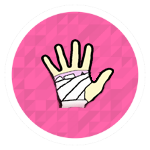
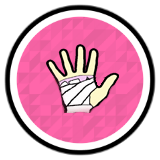
Added projects

Changed region(s): [[0.0267, 0.0267, 0.9867, 0.9867], [0.2667, 0.24, 0.7733, 0.72]]

diff --git a/html5up-astral/index.html b/html5up-astral/index.html
@@ -34,7 +34,8 @@
 						<!-- Me -->
 							<article id="me" class="panel">
 								<header>
-								<img style="position:relative;top:25%;left:65%;border-radius:50%;max-width:200px;" src="me.jpg"/>
+								<img style="position:relative;display:inline;margin:0 auto;top:25%;left:65%;border-radius:50%;max-width:200px;" 
+								src="images/me.jpg"/>
 									<h1>Kevin Yang</h1>
 									<p>Computer/Information Science Student</p>
 								</header>
@@ -53,13 +54,15 @@
 									target="_blank"> staring at mechanical keyboards</a>, as well as <a style="color:inherit;" 
 									href="images/dab.mp4" target="_blank"> risking injury for dumb trends.</a></p>
 									<p>Here are a few useful links:</p>
-									<a target="_blank" href="resume.pdf"><img width="75px" src="images/resume.png"/></a>
-									<span style="position:relative;bottom:30px;font-size:24px;color:#FF6666;">&nbsp; Resume &nbsp;</span>
-									<a target="_blank" href="https://www.linkedin.com/in/kevin-yang-boulder/"><img width="75px"
-									src="images/LinkedIn.png"/></a>
-									<span style="position:relative;bottom:30px;font-size:24px; color:#007BB6;">&nbsp; LinkedIn &nbsp;</span>
-									<a target="_blank" href="https://github.com/keyaa"><img width="75px" src="images/github.png"/></a>
-									<span style="position:relative;bottom:30px;font-size:24px;color:#000000;">&nbsp; Github &nbsp;</span>
+									<a style="text-decoration:none;" target="_blank" href="resume.pdf"><img width="75px" src="images/resume.png"/>
+										<span style="position:relative;bottom:30px;font-size:24px;color:#FF6666;">&nbsp; Resume &nbsp;&nbsp;</span>
+									</a>
+									<a style="text-decoration:none;" target="_blank" href="https://www.linkedin.com/in/kevin-yang-boulder/"><img width="75px" src="images/LinkedIn.png"/>
+										<span style="position:relative;bottom:30px;font-size:24px; color:#007BB6;">&nbsp; LinkedIn &nbsp;&nbsp;</span>
+									</a>
+									<a style="text-decoration:none;"target="_blank" href="https://github.com/keyaa"><img width="75px" src="images/github.png"/>
+										<span style="position:relative;bottom:30px;font-size:24px;color:#000000;">&nbsp; Github &nbsp;&nbsp;</span>
+									</a>
 							</article>
 
 
@@ -71,40 +74,19 @@
 								<p>Here are some of the projects I've been working on.</p>
 									<div class="row">
 										<div class="4u 12u$(mobile)">
-											<a href="#" class="image fit"><img src="images/pic01.jpg" alt=""></a>
+											<a href="http://keyaa.github.io/tic-tac-toe" target="_blank" class="image fit">
+												<img style="max-width:175px;" src="images/tictactoe.png"/>
+											</a>
 										</div>
 										<div class="4u 12u$(mobile)">
-											<a href="#" class="image fit"><img src="images/pic02.jpg" alt=""></a>
-										</div>
-										<div class="4u$ 12u$(mobile)">
-											<a href="#" class="image fit"><img src="images/pic03.jpg" alt=""></a>
-										</div>
-										<div class="4u 12u$(mobile)">
-											<a href="#" class="image fit"><img src="images/pic04.jpg" alt=""></a>
+											<a href="http://keyaa.github.io/osu-stream-practice/" target="_blank" class="image fit">
+												<img style="max-width:175px;" src="images/osuHand.png">
+											</a>
 										</div>
 										<div class="4u 12u$(mobile)">
-											<a href="#" class="image fit"><img src="images/pic05.jpg" alt=""></a>
-										</div>
-										<div class="4u$ 12u$(mobile)">
-											<a href="#" class="image fit"><img src="images/pic06.jpg" alt=""></a>
-										</div>
-										<div class="4u 12u$(mobile)">
-											<a href="#" class="image fit"><img src="images/pic07.jpg" alt=""></a>
-										</div>
-										<div class="4u 12u$(mobile)">
-											<a href="#" class="image fit"><img src="images/pic08.jpg" alt=""></a>
-										</div>
-										<div class="4u$ 12u$(mobile)">
-											<a href="#" class="image fit"><img src="images/pic09.jpg" alt=""></a>
-										</div>
-										<div class="4u 12u$(mobile)">
-											<a href="#" class="image fit"><img src="images/pic10.jpg" alt=""></a>
-										</div>
-										<div class="4u 12u$(mobile)">
-											<a href="#" class="image fit"><img src="images/pic11.jpg" alt=""></a>
-										</div>
-										<div class="4u$ 12u$(mobile)">
-											<a href="#" class="image fit"><img src="images/pic12.jpg" alt=""></a>
+											<a href="https://github.com/keyaa/vim-workshop" target="_blank" class="image fit">
+												<img style="max-width:175px;" src="images/vimWorkshop.png">
+											</a>
 										</div>
 									</div>
 								</section>
